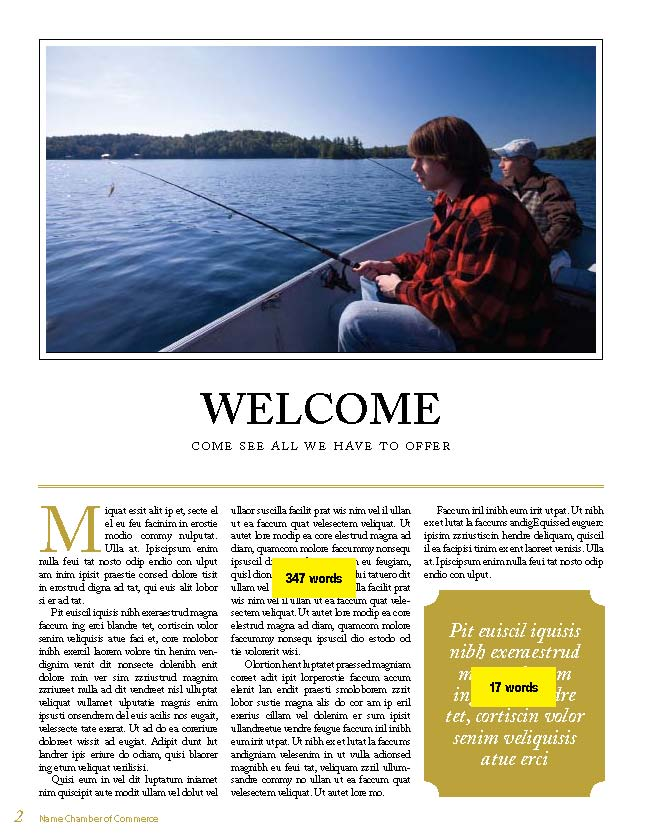
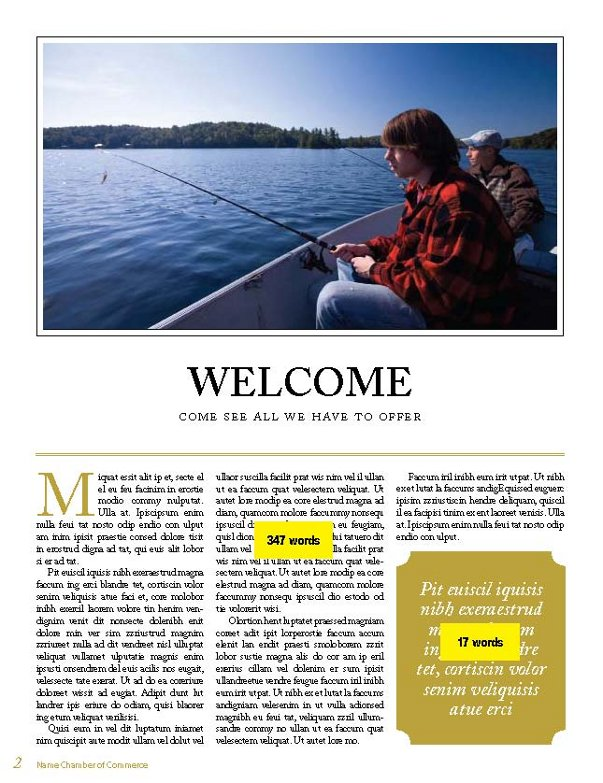
Added image-maps and image-map overlay to page previews.

diff --git a/js/jquery.maphilight.min.js b/js/jquery.maphilight.min.js
@@ -1,0 +1,1 @@
+(function(C){var A,B,I,J,K,G,E,D,F,H;A=document.namespaces;has_canvas=document.createElement("canvas");has_canvas=has_canvas&&has_canvas.getContext;if(!(has_canvas||A)){C.fn.maphilight=function(){return this};return }if(has_canvas){E=function(M,N,L){if(N<=1){M.style.opacity=N;window.setTimeout(E,10,M,N+0.1,10)}};D=function(L){return Math.max(0,Math.min(parseInt(L,16),255))};F=function(L,M){return"rgba("+D(L.substr(0,2))+","+D(L.substr(2,2))+","+D(L.substr(4,2))+","+M+")"};B=function(L){var M=C('<canvas style="width:'+L.width+"px;height:"+L.height+'px;"></canvas>').get(0);M.getContext("2d").clearRect(0,0,M.width,M.height);return M};I=function(Q,M,L,P){var O,N=Q.getContext("2d");N.beginPath();if(M=="rect"){N.rect(L[0],L[1],L[2]-L[0],L[3]-L[1])}else{if(M=="poly"){N.moveTo(L[0],L[1]);for(O=2;O<L.length;O+=2){N.lineTo(L[O],L[O+1])}}else{if(M=="circ"){N.arc(L[0],L[1],L[2],0,Math.PI*2,false)}}}N.closePath();if(P.fill){N.fillStyle=F(P.fillColor,P.fillOpacity);N.fill()}if(P.stroke){N.strokeStyle=F(P.strokeColor,P.strokeOpacity);N.lineWidth=P.strokeWidth;N.stroke()}if(P.fade){E(Q,0)}};J=function(L,M){L.getContext("2d").clearRect(0,0,L.width,L.height)}}else{document.createStyleSheet().addRule("v\\:*","behavior: url(#default#VML); antialias: true;");document.namespaces.add("v","urn:schemas-microsoft-com:vml");B=function(L){return C('<var style="zoom:1;overflow:hidden;display:block;width:'+L.width+"px;height:"+L.height+'px;"></var>').get(0)};I=function(P,M,L,O){var R,S,N,Q;R='<v:fill color="#'+O.fillColor+'" opacity="'+(O.fill?O.fillOpacity:0)+'" />';S=(O.stroke?'strokeweight="'+O.strokeWidth+'" stroked="t" strokecolor="#'+O.strokeColor+'"':'stroked="f"');N='<v:stroke opacity="'+O.strokeOpacity+'"/>';if(M=="rect"){Q=C('<v:rect filled="t" '+S+' style="zoom:1;margin:0;padding:0;display:block;position:absolute;left:'+L[0]+"px;top:"+L[1]+"px;width:"+(L[2]-L[0])+"px;height:"+(L[3]-L[1])+'px;"></v:rect>')}else{if(M=="poly"){Q=C('<v:shape filled="t" '+S+' coordorigin="0,0" coordsize="'+P.width+","+P.height+'" path="m '+L[0]+","+L[1]+" l "+L.join(",")+' x e" style="zoom:1;margin:0;padding:0;display:block;position:absolute;top:0px;left:0px;width:'+P.width+"px;height:"+P.height+'px;"></v:shape>')}else{if(M=="circ"){Q=C('<v:oval filled="t" '+S+' style="zoom:1;margin:0;padding:0;display:block;position:absolute;left:'+(L[0]-L[2])+"px;top:"+(L[1]-L[2])+"px;width:"+(L[2]*2)+"px;height:"+(L[2]*2)+'px;"></v:oval>')}}}Q.get(0).innerHTML=R+N;C(P).append(Q)};J=function(L){C(L).empty()}}K=function(N){var M,L=N.getAttribute("coords").split(",");for(M=0;M<L.length;M++){L[M]=parseFloat(L[M])}return[N.getAttribute("shape").toLowerCase().substr(0,4),L]};H=function(L){if(!L.complete){return false}if(typeof L.naturalWidth!="undefined"&&L.naturalWidth==0){return false}return true};G={position:"absolute",left:0,top:0,padding:0,border:0};C.fn.maphilight=function(L){L=C.extend({},C.fn.maphilight.defaults,L);return this.each(function(){var N,Q,P,R,O,M;N=C(this);if(!H(this)){return window.setTimeout(function(){N.maphilight()},200)}P=C.metadata?C.extend({},L,N.metadata()):L;R=C('map[name="'+N.attr("usemap").substr(1)+'"]');if(!(N.is("img")&&N.attr("usemap")&&R.size()>0&&!N.hasClass("maphilighted"))){return }Q=C("<div>").css({display:"block",background:"url("+this.src+")",position:"relative",padding:0,width:this.width,height:this.height});N.before(Q).css("opacity",0).css(G).remove();if(C.browser.msie){N.css("filter","Alpha(opacity=0)")}Q.append(N);O=B(this);C(O).css(G);O.height=this.height;O.width=this.width;M=function(T){var S=K(this);I(O,S[0],S[1],C.metadata?C.extend({},P,C(this).metadata()):P)};if(P.alwaysOn){C(R).find("area[coords]").each(M)}else{C(R).find("area[coords]").mouseover(M).mouseout(function(S){J(O)})}N.before(O);N.addClass("maphilighted")})};C.fn.maphilight.defaults={fill:true,fillColor:"000000",fillOpacity:0.2,stroke:true,strokeColor:"ff0000",strokeOpacity:1,strokeWidth:1,fade:true,alwaysOn:false}})(jQuery);

diff --git a/interface.js b/interface.js
@@ -10,10 +10,11 @@ function getTodo(user_id,order_id) {
        }
 
 function loadPreview(pub_id,page_num) {
-    var data = '<img src=\"interface.php?pub_id='+pub_id+'&page_num='+page_num+'&task=loadPreview\" usemap="#map" border="0"/>';
+    var data = '<img src=\"interface.php?pub_id='+pub_id+'&page_num='+page_num+'&task=loadPreview\" usemap="#map" border="0" class="map"/>';
     $.get('interface.php?pub_id='+pub_id+'&page_num='+page_num+'&task=getMap', function(map) {
     	data = data + map;
- 	    $('.the-box-template').html(data);	
+ 	    $('.the-box-template').html(data);
+ 	    $('.map').maphilight();
     });
 
 	 }

diff --git a/interface.php b/interface.php
@@ -1,6 +1,6 @@
 <?php
 error_reporting(E_ALL);
-
+$task = $_GET['task'];
 
 ###################### Functions that DO NOT require MySQL ########################
 #  For things like using GD to export to /dev/null we need to load these first    #
@@ -113,7 +113,13 @@ if ($task == "getMap") { echo getMap($pub_id, $page_num); }
 		
 		// Get the height of the original image and then determine the ratio to size the image maps down.
 		// This is just copied from the image resizing function.
-		
+		$query = "SELECT * FROM assets WHERE pub_id = '".$pub_id."' AND page_num = '1' AND asset_num = '0'";
+		$result = mysql_query($query) or die(mysql_error());
+			while($row = mysql_fetch_array($result)){
+							$document_width = $row['asset_x2'] - $row['asset_x1'];
+						}
+						
+			/*		
 			$pub_id = sprintf("%05d",$pub_id); 
 			
 			$lz = "0"; if ($page_num >= 10) { $lz = ""; }
@@ -121,26 +127,30 @@ if ($task == "getMap") { echo getMap($pub_id, $page_num); }
 			
 			// Ratio calc: W/H*444 = New height
 			list($width, $height) = getimagesize($filename);
+			$ratioy = (444 * $height / $width) / $height; */
 			
-			$ratiox = 444 / $width;
-			$ratioy = (444 * $height / $width) / $height;
+			$ratio = 444 / $document_width;
+			
 		
 		$pub_id = sprintf("%05d",$pub_id);
-		$query = "SELECT * FROM assets WHERE pub_id = '".$pub_id."' AND page_num = '".$page_num."' ORDER BY asset_typ";
+		$query = "SELECT  * FROM assets WHERE pub_id = '".$pub_id."' AND page_num = '".$page_num."' ORDER BY CASE  WHEN asset_typ = 'Page' THEN 1 WHEN asset_typ = 'Body copy' THEN 5 WHEN asset_img = '1' THEN 4 ELSE 3 END , asset_typ";
 		$result = mysql_query($query) or die(mysql_error());
 		
 		$num = 0;
+		$page_spread = 0;
 		// Start the image map
 		echo "<MAP NAME=\"map\">";
-		while($row = mysql_fetch_array($result)){
-				$x1 = $row['asset_x1'] * $ratiox;
-				$x2 = $row['asset_x2'] * $ratiox;
-				$y1 = $row['asset_y1'] * $ratioy;
-				$y2 = $row['asset_y2'] * $ratioy;
-				echo "<AREA SHAPE=\"rect\" COORDS=\"".$x1.",".$y1.",".$x2.",".$y2."\" HREF=\"".$num."\" style=\"background: #000000;\">";
-			$num++;
-			}
-	
+			while($row = mysql_fetch_array($result)){
+					if ($row['asset_x1'] == 0 && $row['asset_typ'] == "Page" && $num == 0) { $document_width = 0; } 
+					$x1 = ($row['asset_x1'] - $document_width) * $ratio; $x1=(int)$x1;
+					$x2 = ($row['asset_x2'] - $document_width) * $ratio; $x2=(int)$x2;
+					$y1 = $row['asset_y1'] * $ratio; $y1=(int)$y1;
+					$y2 = $row['asset_y2'] * $ratio; $y2=(int)$y2;
+					if ($row['asset_typ'] != "Page") {
+						echo "<AREA SHAPE=\"rect\" COORDS=\"".$x1.",".$y1.",".$x2.",".$y2."\" HREF=\"".$num."\" id=\"".$row['asset_typ'].$row['asset_num']."\">";
+					}
+					$num++;
+				}
 		echo "</MAP>";
 	}
 	

diff --git a/index.php b/index.php
@@ -11,7 +11,10 @@
 	<link rel = "stylesheet" type="text/css" href="style.css" >
 	<script type="text/javascript" src="http://ajax.googleapis.com/ajax/libs/jquery/1.4.2/jquery.min.js"></script>
 	<script type="text/javascript" src="http://ajax.googleapis.com/ajax/libs/jqueryui/1.8.0/jquery-ui.min.js"></script>
+	<script type="text/javascript" src="js/jquery.maphilight.min.js"></script>
+<script>
 
+</script>
 	
 <!-- Ajax/js value scripting -->
 		<script type="text/javascript">
@@ -22,13 +25,17 @@
 		<script type="text/javascript" src="interface.js"></script>
 
 		<script type="text/javascript">
-//		function getTodo() {
-//               $.get('interface.php?todo='+$('#login2').val(), function(data) {
-//                  if(data === 'allow') {  window.location = "index.php?code="+data+"&pass=64v50" }
-//                  if(data === 'dont') {$('#show').html("Invalid code. Please try again or email marketwise@communitylink.com.");}
-//
-//               });
-//               }
+		$.fn.maphilight.defaults = {
+				fill: true,
+				fillColor: '723882',
+				fillOpacity: 0.7,
+				stroke: true,
+				strokeColor: '000000',
+				strokeOpacity: 1,
+				strokeWidth: 2,
+				fade: true,
+				alwaysOn: false
+			}
 		</script>
 	
 </head>

diff --git a/scripts/dbconnect.php b/scripts/dbconnect.php
@@ -1,2 +1,2 @@
-<?php mysql_connect("localhost", "root", "") or die(mysql_error()); mysql_select_db("otb") or die(mysql_error()); ?>
+<?php mysql_connect("localhost", "root", "prolls") or die(mysql_error()); mysql_select_db("otb") or die(mysql_error()); ?>
 
